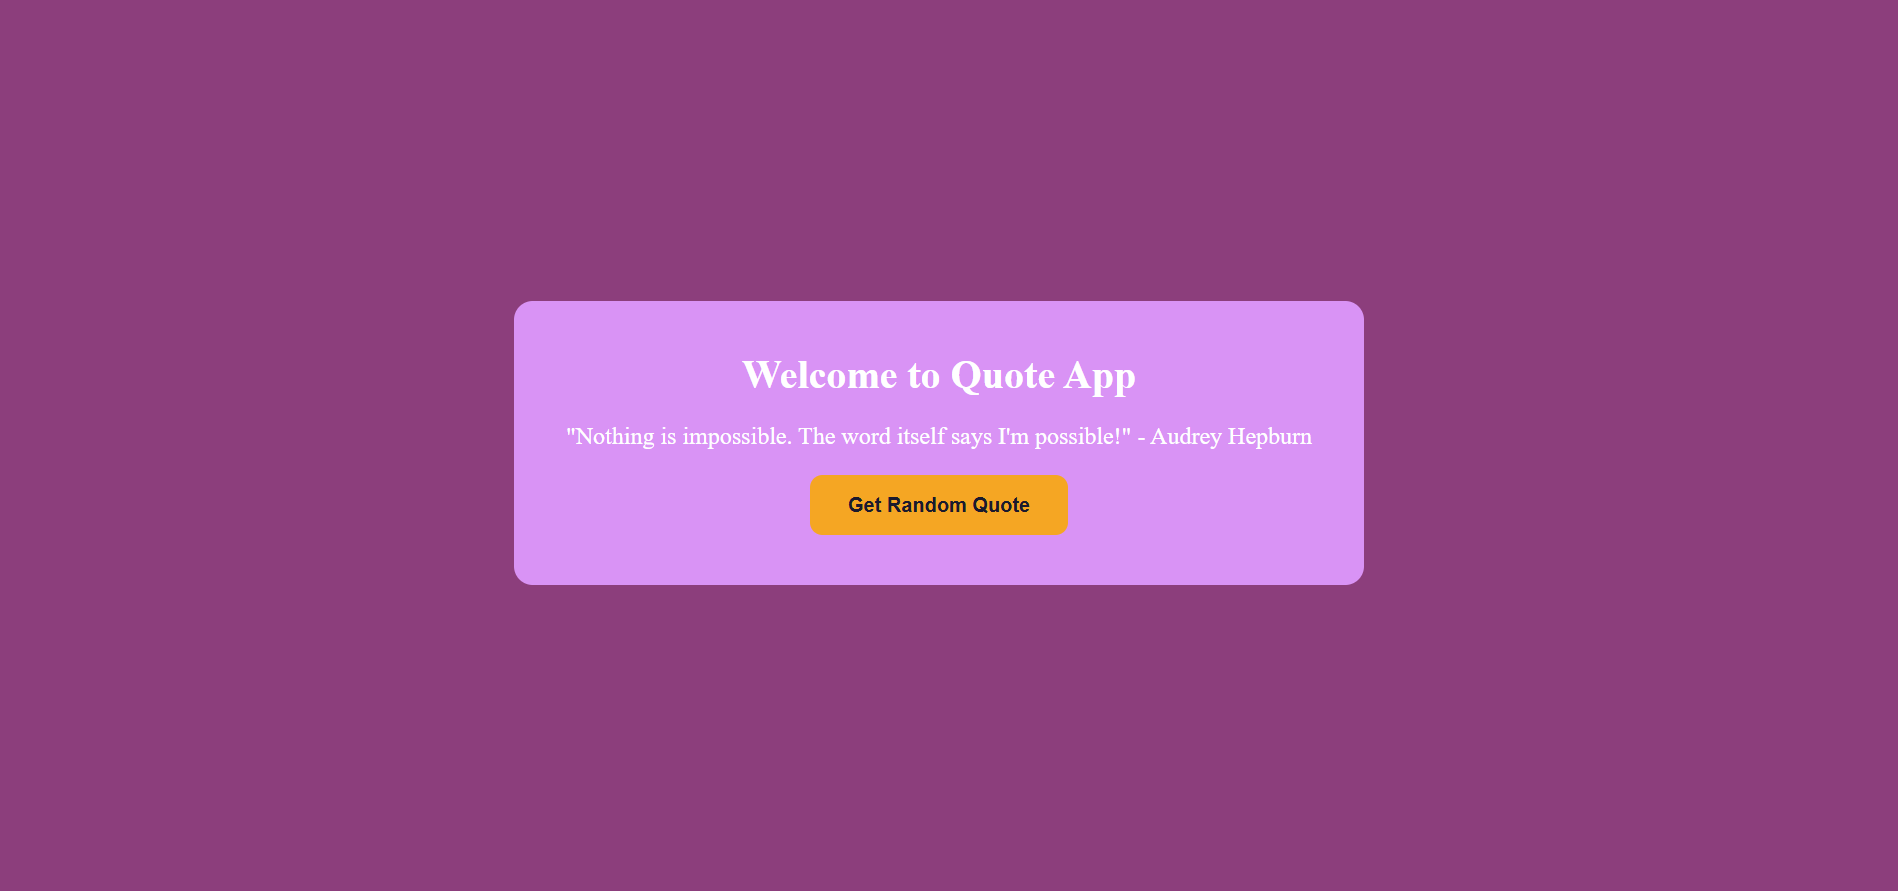
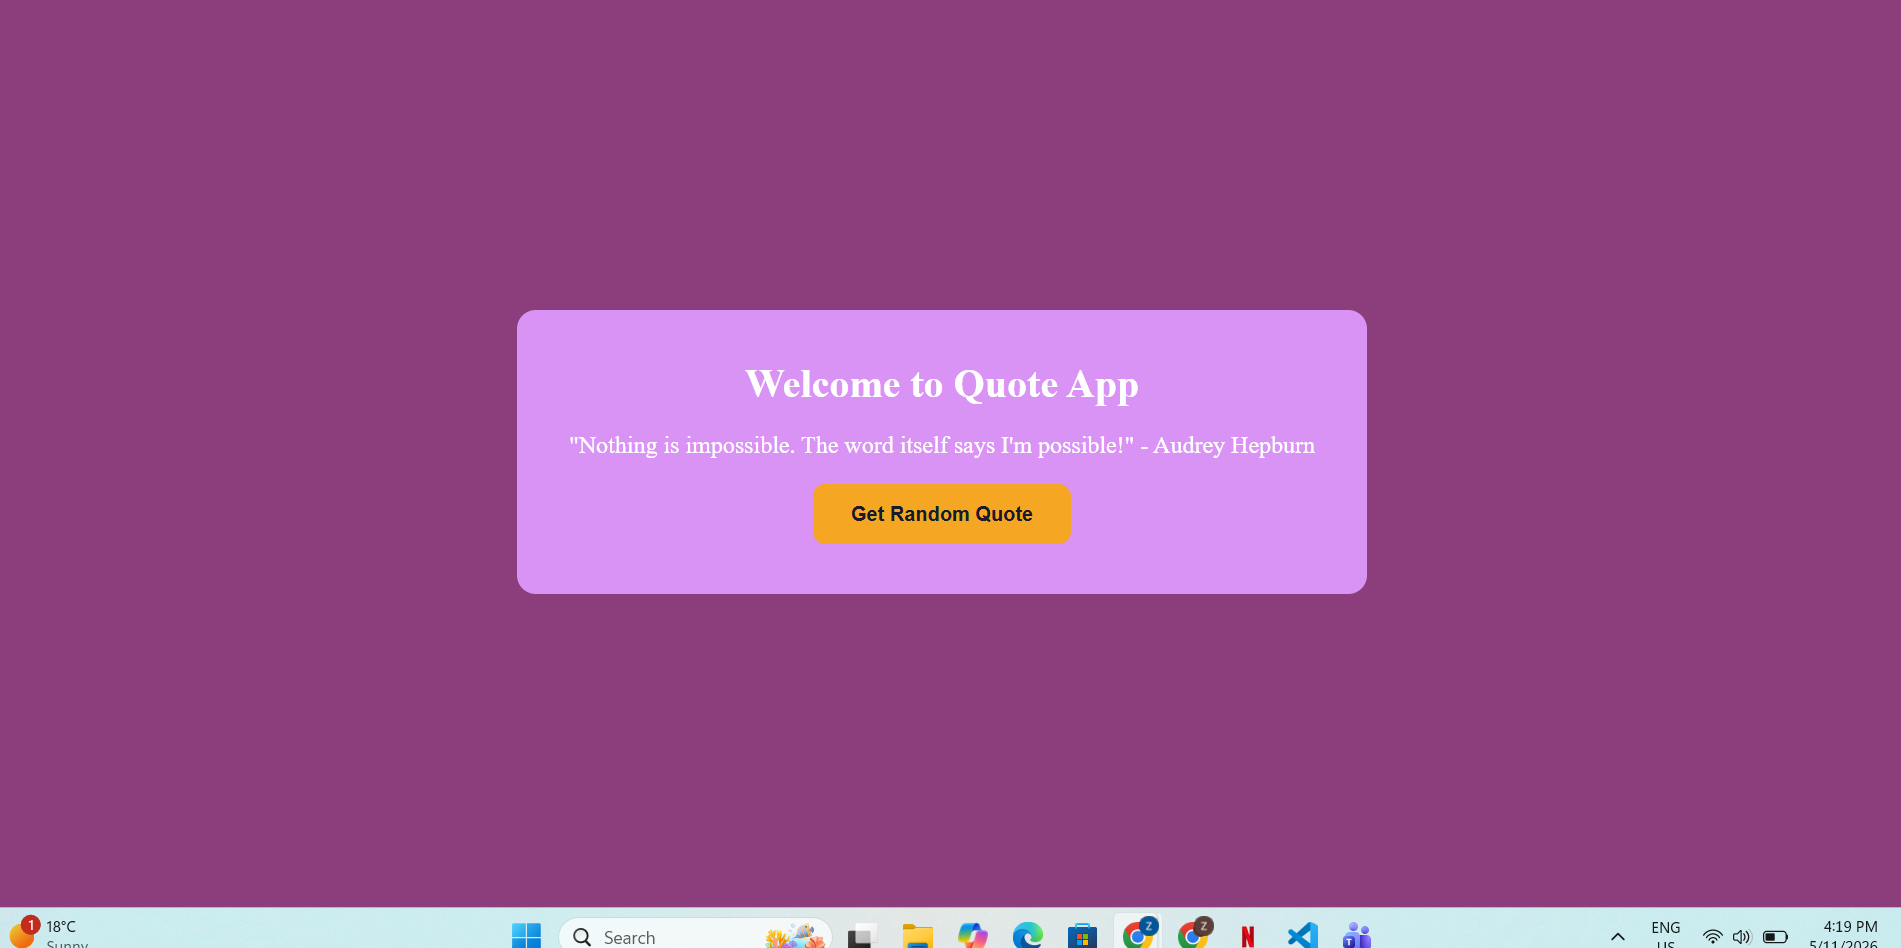
Fix  screenshot

Changed region(s): [[0.2487, 0.3939, 0.715, 0.6667], [0.0, 0.9394, 1.0, 1.0], [0.2798, 0.303, 0.715, 0.3636]]

diff --git a/README.md b/README.md
@@ -31,4 +31,4 @@ flak run
 - Flask
 
 ## Screenshots
-Quote App (screenshot.png)
+![Quote App](screenshot.png)